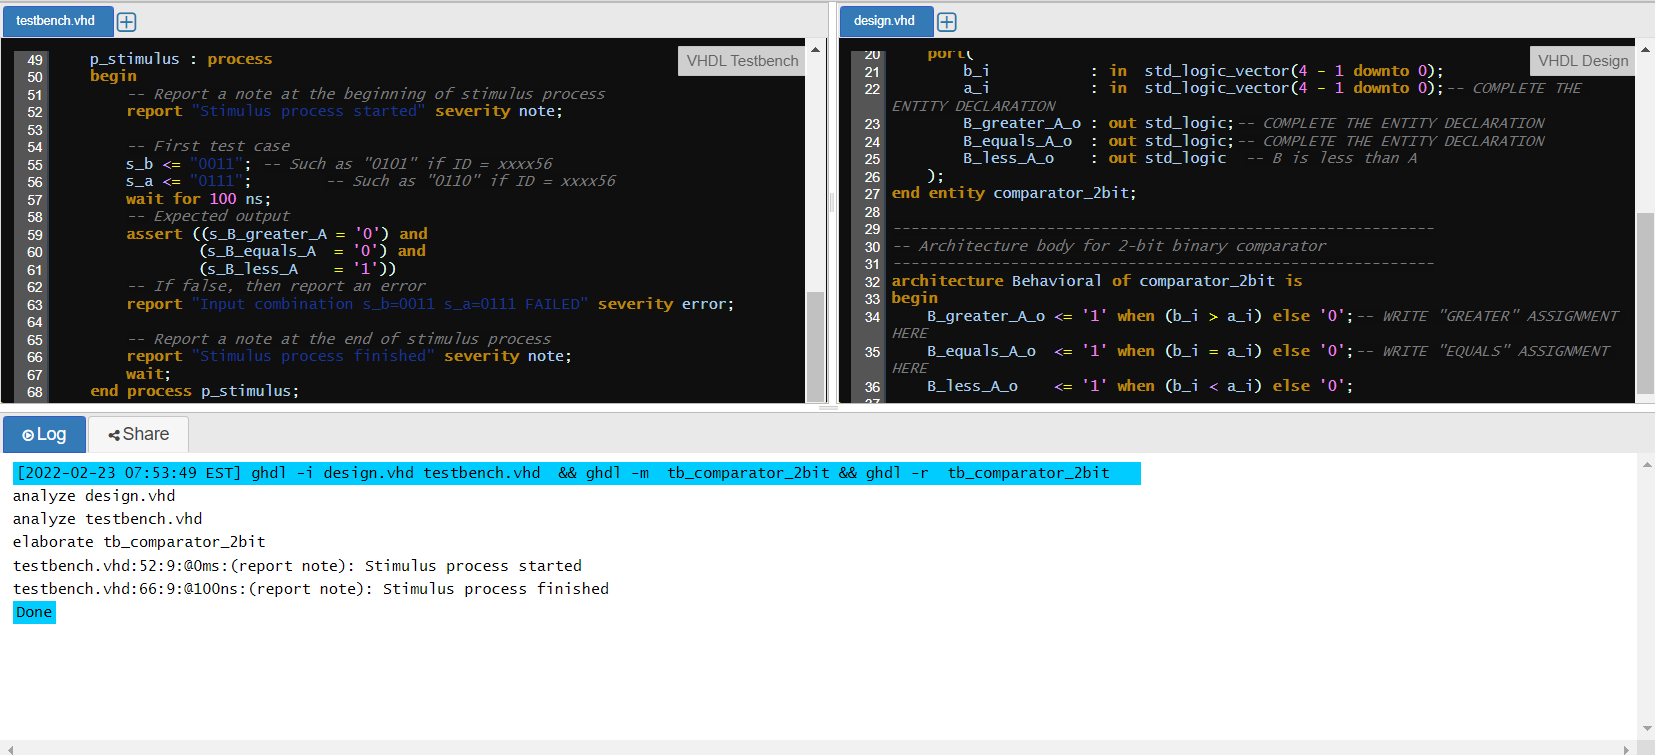
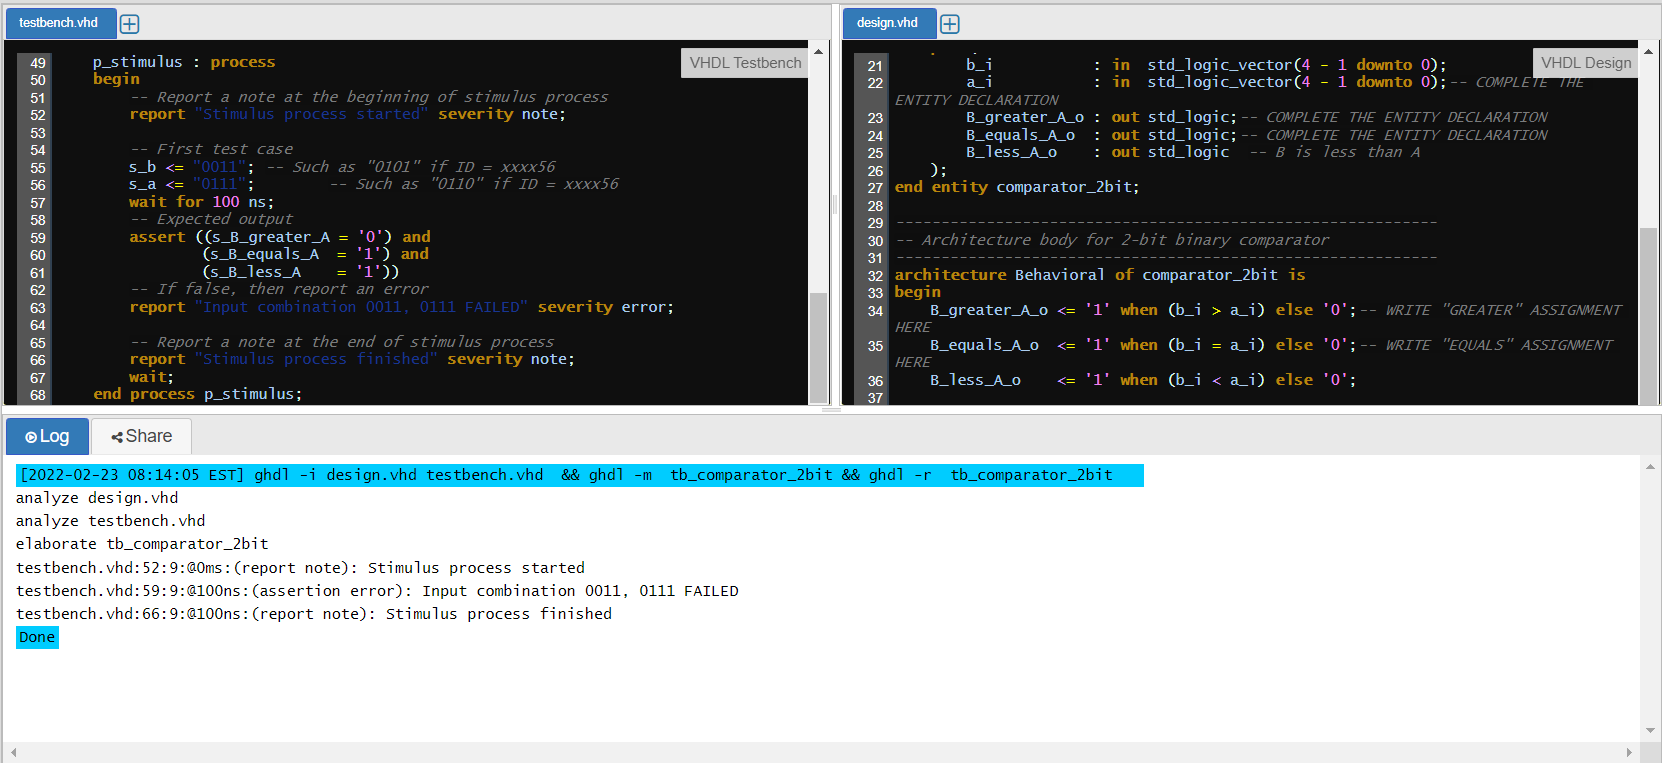
Na žádost vyučujícího uměle vytvořena chyba

Changed region(s): [[0.0, 0.0, 1.0, 0.853], [0.9861, 0.9444, 1.0, 0.9748], [0.9861, 0.6093, 1.0, 0.6397]]

diff --git a/labs/02-logic/assignment.md b/labs/02-logic/assignment.md
@@ -34,7 +34,7 @@
         wait for 100 ns;
         -- Expected output
         assert ((s_B_greater_A = '0') and
-                (s_B_equals_A  = '0') and
+                (s_B_equals_A  = '1') and
                 (s_B_less_A    = '1'))
         -- If false, then report an error
         report "Input combination s_b=0011 s_a=0111 FAILED" severity error;
